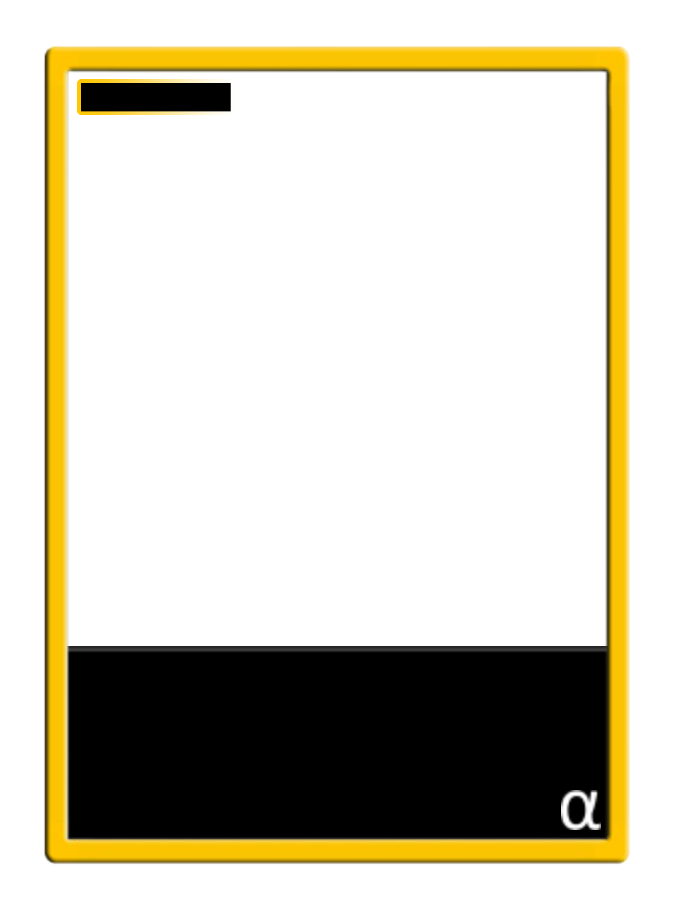
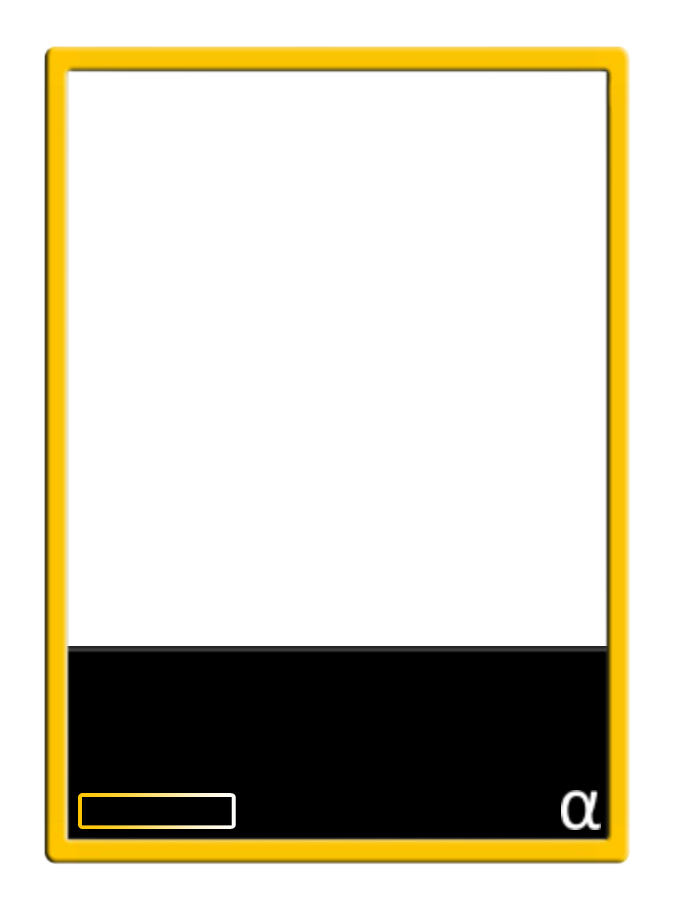
image gen now saves images

Changed region(s): [[0.0933, 0.0615, 0.3422, 0.1538], [0.0933, 0.8615, 0.3733, 0.9231]]

diff --git a/src/commands/cards/generate.js b/src/commands/cards/generate.js
@@ -1,7 +1,10 @@
-const { Client, Interaction, ApplicationCommandOptionType, EmbedBuilder , ButtonBuilder, ButtonStyle, ActionRowBuilder, AttachmentBuilder, ComponentType, TimestampStyles,} = require('discord.js');
+const { Client, Interaction, ApplicationCommandOptionType, EmbedBuilder, StringSelectMenuBuilder, ButtonBuilder, ButtonStyle, ActionRowBuilder, AttachmentBuilder, ComponentType, TimestampStyles,} = require('discord.js');
 const { resolveImageBuffer } = require("../../models/imageResolver");
 const { userExists } = require('../../models/users');
-const { cardGen } = require('../../models/cardGen');
+const { cardGen, cardGenFromCropped } = require('../../models/cardGen');
+const { cropImage } = require("../../models/imageCrop");
+const fs = require("fs");
+const path = require("path");
 const sharp = require("sharp")
 
 module.exports = {
@@ -13,7 +16,7 @@ module.exports = {
         // Variables
         const name = interaction.options.get('name').value
         const set = interaction.options.get('set')?.value || "Alpha"
-        const attachment = interaction.options.getAttachment('image')
+        const img = interaction.options.getAttachment('image')
         const url = interaction.options.getString('url')
         const edition = interaction.options.get('edition')?.value || 1
         const author = interaction.user.id
@@ -27,7 +30,9 @@ module.exports = {
             });
         }
 
-        const imageOption = attachment ?? url;
+        const activeCards = new Map();
+
+        const imageOption = img ?? url;
 
         if (!imageOption) {
             return interaction.reply({
@@ -37,23 +42,172 @@ module.exports = {
         }
         
         await interaction.deferReply();
+        const buffer = await resolveImageBuffer(imageOption);
 
-        try {
-            const buffer = await resolveImageBuffer(imageOption);
+        const output = await cardGen(buffer, {
+            name,
+            subtitle: "MR25NX",
+            footer: "51277"
+        });
 
-            const output = await cardGen(buffer, {
-                name,
-                subtitle: "stfu retard nigger"
+        const cropSelect = new ActionRowBuilder().addComponents(
+            new StringSelectMenuBuilder()
+                .setCustomId("crop_select")
+                .setPlaceholder("Choose crop mode")
+                .addOptions([
+                    { label: "Center", value: "centre" },
+                    { label: "Left", value: "left" },
+                    { label: "Right", value: "right" },
+                    { label: "Top", value: "top" },
+                    { label: "Bottom", value: "bottom" },
+                    { label: "Stretch", value: "stretch" }
+                ])
+        );
+
+        const actionButtons = new ActionRowBuilder().addComponents(
+            new ButtonBuilder()
+                .setCustomId("confirm_card")
+                .setLabel("Confirm")
+                .setStyle(ButtonStyle.Success),
+
+            new ButtonBuilder()
+                .setCustomId("cancel_card")
+                .setLabel("Cancel")
+                .setStyle(ButtonStyle.Danger)
+        );
+
+        const cropMode = "centre";
+
+        const image = await cardGen(buffer, {
+            name,
+            subtitle: "",
+            footer: ""
+        }, cropMode);
+
+        const attachment = new AttachmentBuilder(image, {
+            name: "card.png"
+        });
+
+        const message = await interaction.editReply({
+            content: "🖼 Card preview",
+            files: [attachment],
+            components: [cropSelect, actionButtons]
+        });
+
+        await interaction.editReply({
+            files: [{ attachment: output, name: "card.png" }]
+        });
+
+        activeCards.set(message.id, {
+            buffer,
+            data: { name, subtitle: "", footer: "" },
+            cropMode: "centre",
+            author: interaction.user.id
+        });
+
+        client.on("interactionCreate", async interaction => {
+            if (!interaction.isStringSelectMenu()) return;
+            if (interaction.customId !== "crop_select") return;
+
+            const state = activeCards.get(interaction.message.id);
+            if (!state) return;
+
+            if (interaction.user.id !== state.author) {
+                return interaction.reply({
+                content: "❌ This is not your card.",
+                ephemeral: true
+                });
+            }
+
+            const cropMode = interaction.values[0];
+            state.cropMode = cropMode;
+
+            const newImage = await cardGen(
+                state.buffer,
+                state.data,
+                cropMode
+            );
+
+            const attachment = new AttachmentBuilder(newImage, {
+                name: "card.png"
             });
 
-            await interaction.editReply({
-                files: [{ attachment: output, name: "card.png" }]
+            await interaction.update({
+                content: "🖼 Card preview",
+                files: [attachment],
+                components: interaction.message.components
             });
-        } catch (err) {
-            await interaction.editReply({
-                content: `❌ ${err.message}`
+        });
+
+        client.on("interactionCreate", async interaction => {
+            if (!interaction.isButton()) return;
+            if (interaction.customId !== "confirm_card") return;
+
+            const state = activeCards.get(interaction.message.id);
+            if (!state) return;
+
+            if (interaction.user.id !== state.author) {
+                return interaction.reply({
+                content: "❌ This is not your card.",
+                ephemeral: true
+                });
+            }
+
+            const { buffer, data, cropMode } = state;
+
+            // 🔹 1. Generate cropped image (NO border)
+            const croppedImage = await cropImage(buffer, cropMode);
+
+            // 🔹 2. Generate full card (WITH border)
+            const finalCard = await cardGenFromCropped(croppedImage, data);
+
+            // 🔹 3. Save both
+            const basePath = path.join(__dirname, "../../img/cards");
+            const cardId = Date.now(); // or DB id
+
+            fs.writeFileSync(
+                path.join(basePath, `card_${cardId}.png`),
+                finalCard
+            );
+
+            fs.writeFileSync(
+                path.join(basePath, `card_${cardId}_image.png`),
+                croppedImage
+            );
+
+            // 🔹 4. Cleanup state
+            activeCards.delete(interaction.message.id);
+
+            await interaction.update({
+                content: "✅ Card confirmed and saved!",
+                components: [],
+                files: interaction.message.attachments.map(a => a)
             });
-        }
+        });
+
+        client.on("interactionCreate", async interaction => {
+            if (!interaction.isButton()) return;
+            if (interaction.customId !== "cancel_card") return;
+
+            const state = activeCards.get(interaction.message.id);
+            if (!state) return;
+
+            if (interaction.user.id !== state.author) {
+                return interaction.reply({
+                content: "❌ This is not your card.",
+                ephemeral: true
+                });
+            }
+
+            // 🧹 Cleanup state
+            activeCards.delete(interaction.message.id);
+
+            await interaction.update({
+                content: "❌ Card generation canceled.",
+                components: [],
+                files: interaction.message.attachments.map(a => a)
+            });
+        });
     },
     name: 'generate',
     description: 'Generate a card (admin only)',

diff --git a/src/models/cardGen.js b/src/models/cardGen.js
@@ -6,27 +6,28 @@ const CANVAS_HEIGHT = 910;
 const IMAGE_WIDTH = 550;
 const IMAGE_HEIGHT = 600;
 
-async function cardGen(imageBuffer, data) {
+async function cardGen(imageBuffer, data, cropMode = "centre") {
+  const isStretch = cropMode === "stretch";
+
   const resizedImage = await sharp(imageBuffer)
-    .resize(IMAGE_WIDTH, IMAGE_HEIGHT, { fit: "cover" })
+    .resize(550, 600, {
+      fit: isStretch ? "fill" : "cover",
+      position: isStretch ? undefined : cropMode
+    })
     .toBuffer();
 
   const textLayer = drawTextLayer(data);
 
   return sharp({
     create: {
-      width: CANVAS_WIDTH,
-      height: CANVAS_HEIGHT,
+      width: 675,
+      height: 910,
       channels: 4,
       background: { r: 0, g: 0, b: 0, alpha: 0 }
     }
   })
     .composite([
-      {
-        input: resizedImage,
-        left: Math.floor((CANVAS_WIDTH - IMAGE_WIDTH) / 2),
-        top: 62
-      },
+      { input: resizedImage, left: 62, top: 62 },
       { input: "./src/img/borders/atpl2.png" },
       { input: textLayer }
     ])
@@ -34,4 +35,24 @@ async function cardGen(imageBuffer, data) {
     .toBuffer();
 }
 
-module.exports = { cardGen };
+async function cardGenFromCropped(croppedImage, data) {
+  const textLayer = drawTextLayer(data);
+
+  return sharp({
+    create: {
+      width: 675,
+      height: 910,
+      channels: 4,
+      background: { r: 0, g: 0, b: 0, alpha: 0 }
+    }
+  })
+    .composite([
+      { input: croppedImage, left: 62, top: 62 },
+      { input: "./src/img/borders/atpl2.png" },
+      { input: textLayer }
+    ])
+    .png()
+    .toBuffer();
+}
+
+module.exports = { cardGen, cardGenFromCropped };

diff --git a/src/models/textCanvas.js b/src/models/textCanvas.js
@@ -1,23 +1,60 @@
+// textCanvas.js
 const { createCanvas } = require("@napi-rs/canvas");
 
 const CANVAS_WIDTH = 675;
 const CANVAS_HEIGHT = 910;
+const IMAGE_WIDTH = 550;
 
-function drawTextLayer({ name, subtitle }) {
+
+function fitTextToWidth(ctx, text, {
+  maxWidth,
+  fontFamily,
+  startSize,
+  minSize = 16
+}) {
+  let fontSize = startSize;
+
+  while (fontSize > minSize) {
+    ctx.font = `${fontSize}px ${fontFamily}`;
+    if (ctx.measureText(text).width <= maxWidth) {
+      break;
+    }
+    fontSize--;
+  }
+
+  return fontSize;
+}
+
+function drawTextLayer({ name, subtitle, footer }) {
   const canvas = createCanvas(CANVAS_WIDTH, CANVAS_HEIGHT);
   const ctx = canvas.getContext("2d");
 
-  ctx.textAlign = "center";
-  ctx.textBaseline = "alphabetic";
   ctx.fillStyle = "white";
+  ctx.textBaseline = "alphabetic";
 
-  ctx.font = "60px Goldman";
-  ctx.fillText(name, CANVAS_WIDTH / 2, 672);
+  // 🔹 NAME (auto-sized, centered)
+  ctx.textAlign = "center";
+  const nameSize = fitTextToWidth(ctx, name, {
+    maxWidth: 520,
+    fontFamily: "Goldman",
+    startSize: 50,
+    minSize: 28
+  });
 
-  ctx.font = "25px Goldman";
-  ctx.fillText(subtitle, CANVAS_WIDTH / 2, 720);
+  ctx.font = `${nameSize}px Goldman`;
+  ctx.fillText(name, CANVAS_WIDTH / 2, 715);
+
+  // 🔹 SUBTITLE (centered)
+  ctx.font = "22px Goldman";
+  ctx.fillText(subtitle, CANVAS_WIDTH / 2, 740);
+
+  // 🔹 FOOTER / 3rd TEXT (left-aligned, fixed)
+  ctx.textAlign = "left";
+  ctx.font = "18px Goldman";
+  ctx.fillText(footer, 90, 817);
 
   return canvas.toBuffer("image/png");
 }
+
 
 module.exports = { drawTextLayer };

diff --git a/src/models/imageCrop.js b/src/models/imageCrop.js
@@ -1,0 +1,15 @@
+const sharp = require("sharp");
+
+async function cropImage(buffer, cropMode) {
+  const isStretch = cropMode === "stretch";
+
+  return sharp(buffer)
+    .resize(550, 600, {
+      fit: isStretch ? "fill" : "cover",
+      position: isStretch ? undefined : cropMode
+    })
+    .png()
+    .toBuffer();
+}
+
+module.exports = { cropImage };
